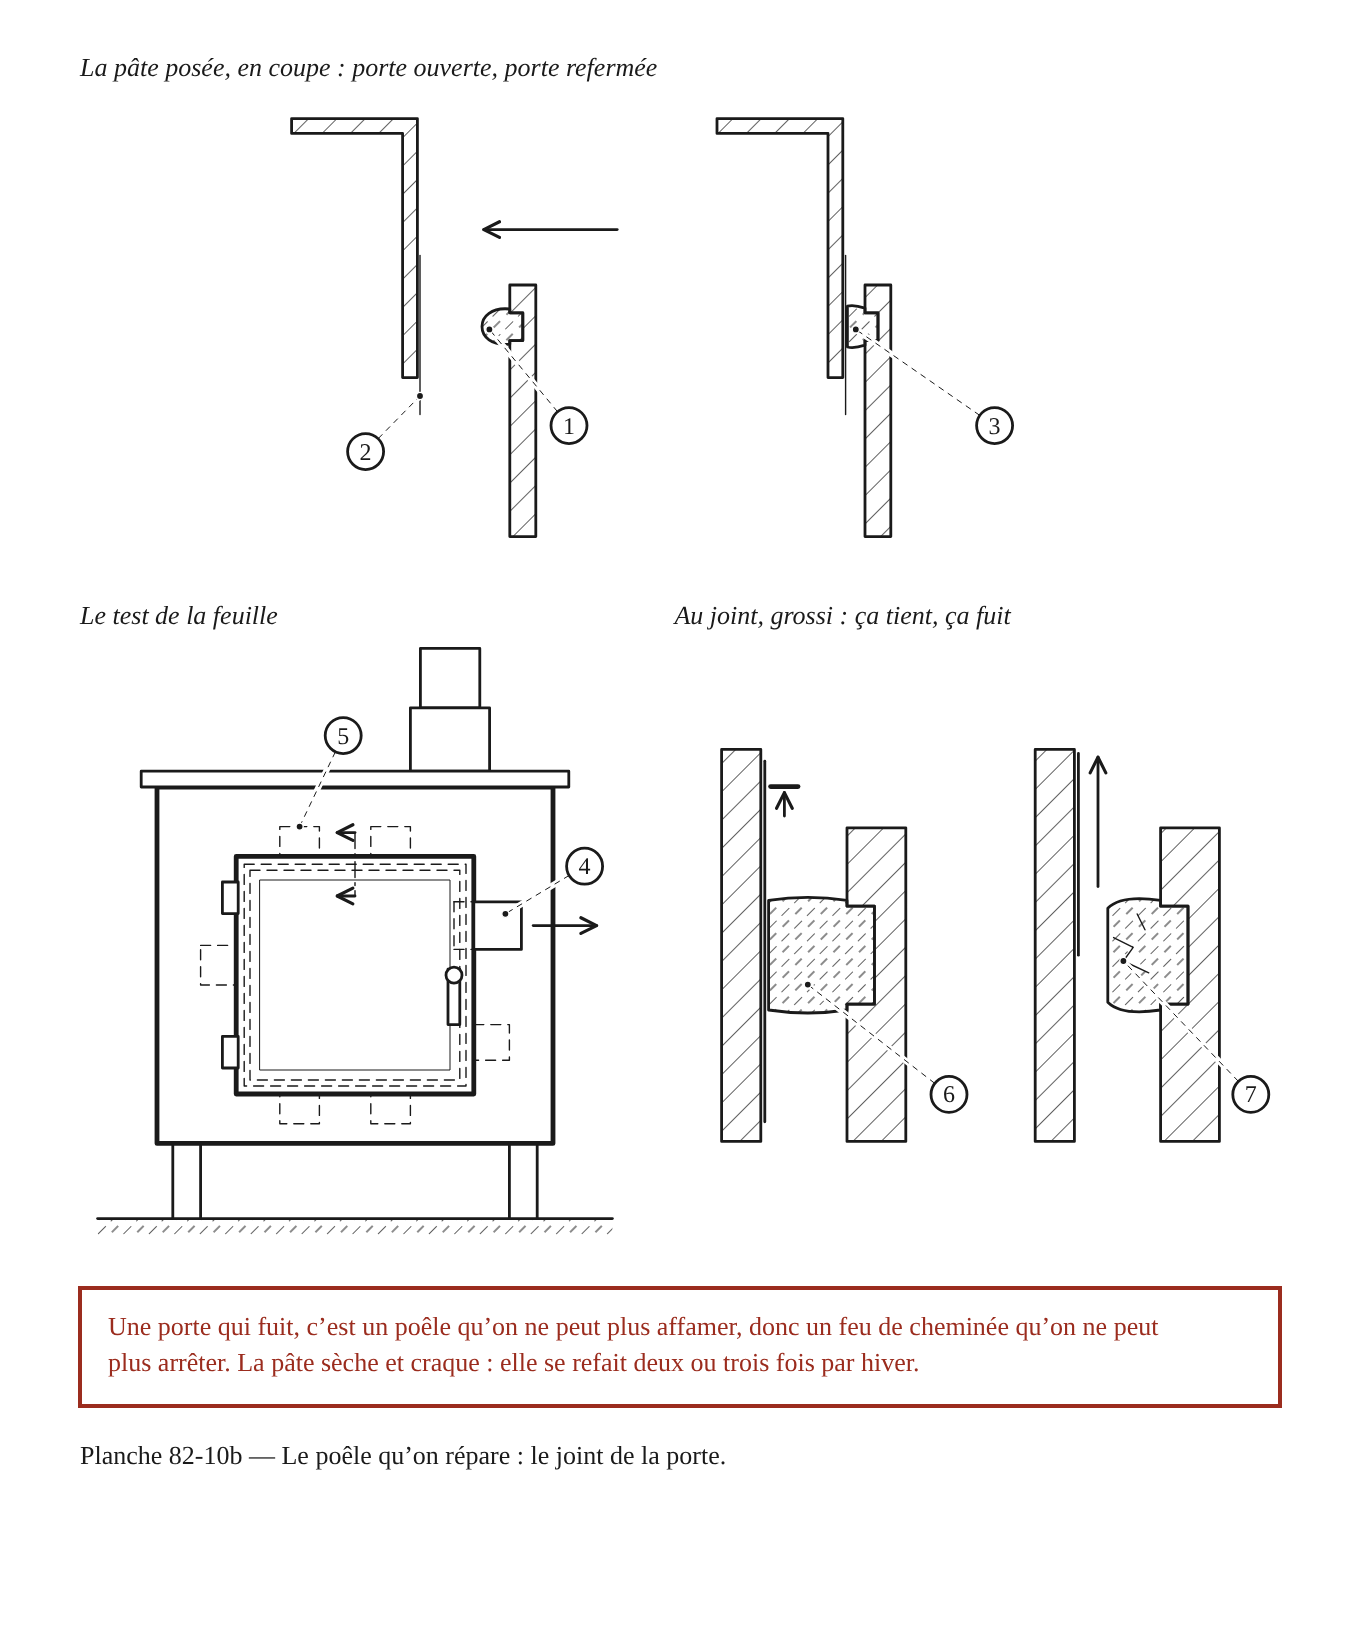
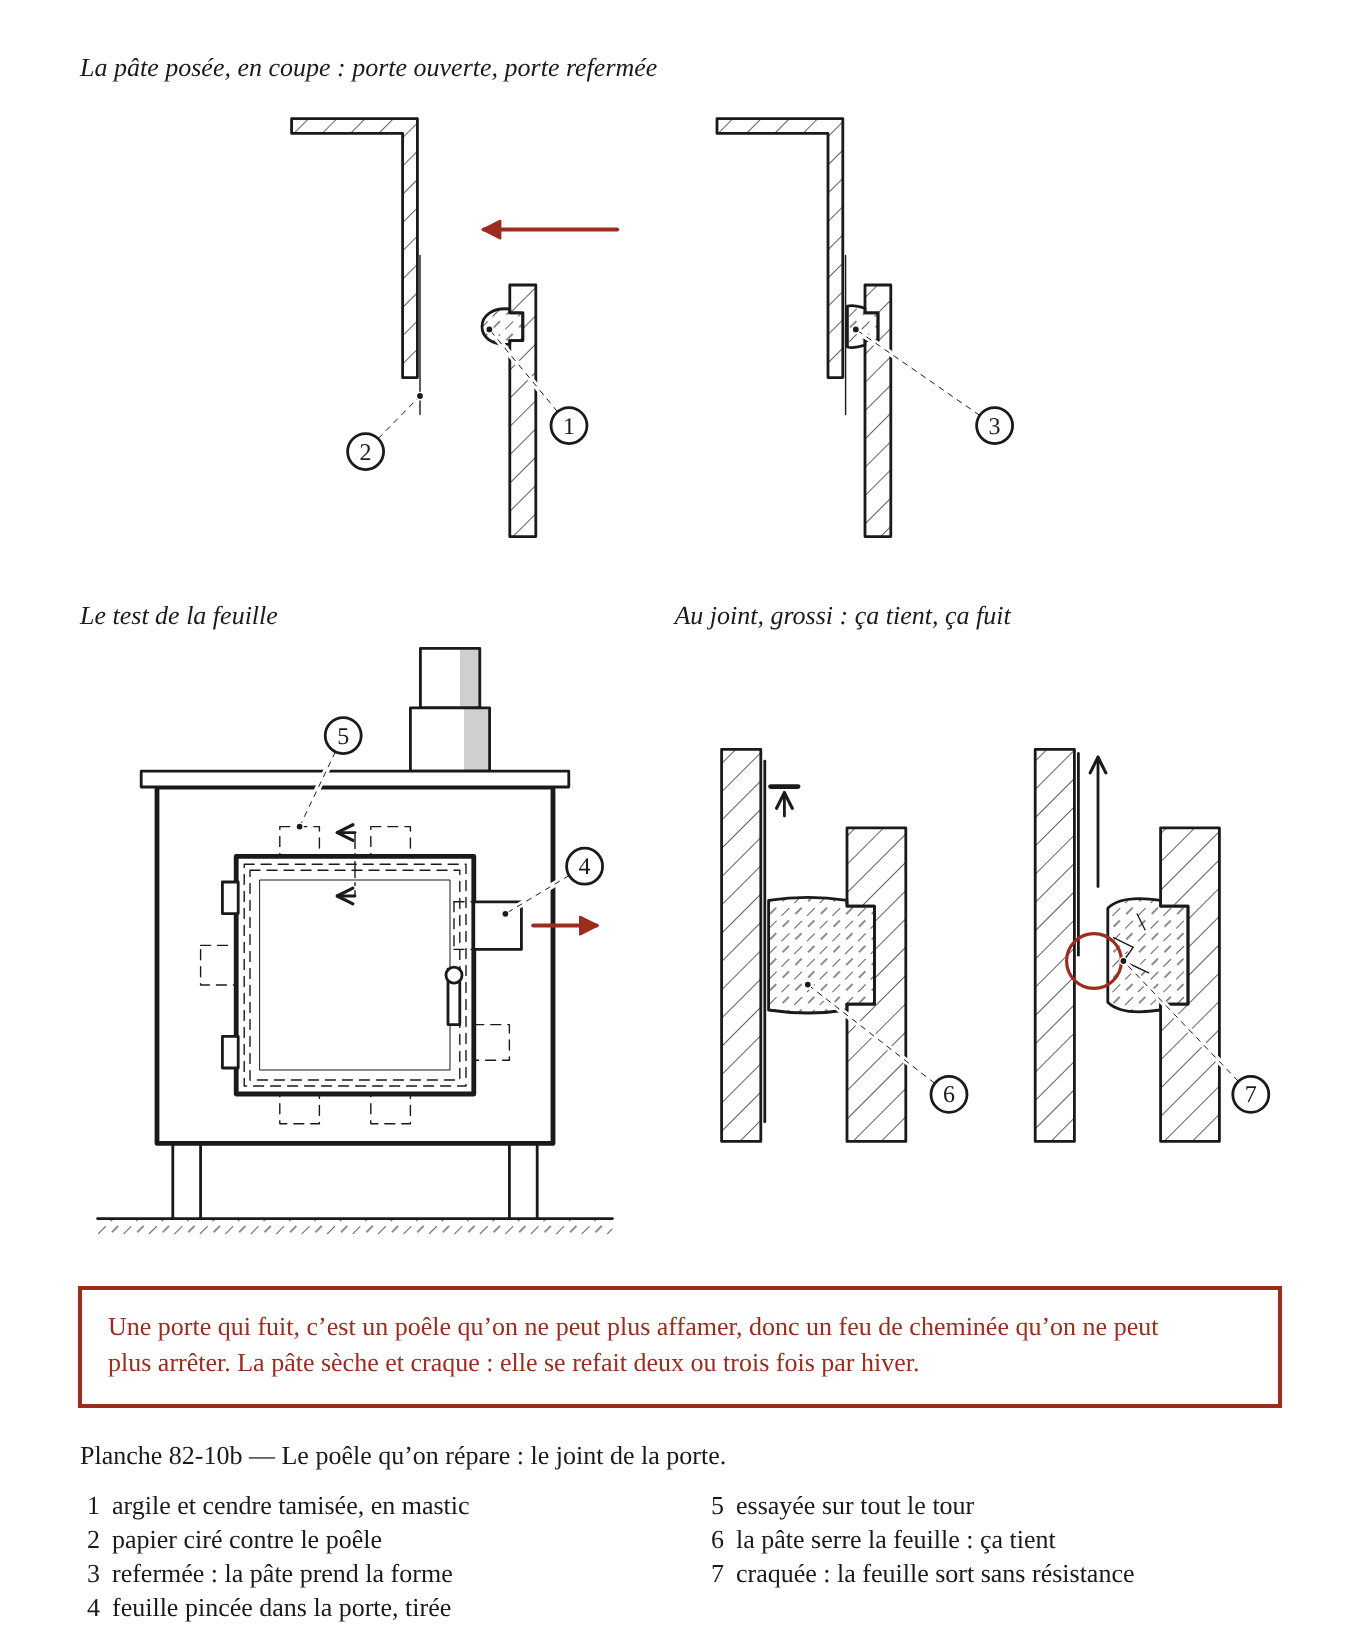
Charte : lot 2 terminé
Claude-Session: https://claude.ai/code/session_014xDY5FLxFXDJt3nYAYznSZ

diff --git a/images/planches-src/93-41.js b/images/planches-src/93-41.js
@@ -7,6 +7,10 @@
 // leurs clous (où la guirlande s'accroche), les clous au plafond, la boucle de cordelette qui pend
 // la botte au fil, et dehors l'avant-toit (contre la neige) et la moustiquaire nouée (contre les
 // oiseaux) : le chapitre dit « à l'abri », pas avec quoi.
+// La charte : sur le fil, les tranches au contour fort et les poteaux ramenés à l'arête ; le
+// poêle, qui n'est là que pour situer les bottes, recule en gris loin. Le rouge : le vide entre
+// deux tranches (le point à vérifier : elles ne se touchent pas) et, au-dessus du poêle, la zone
+// où la feuille cuit. Les flèches d'air restent noires.
 
 module.exports = (h) => {
   const f = v => Math.round(v * 10) / 10;
@@ -56,12 +60,12 @@ module.exports = (h) => {
   };
 
   // La guirlande complète : fil, tranches, entrée du fil dans chaque face.
-  const guirlande = (x0, y0, x1, y1, sag, n, s, k, t, marge) => {
+  const guirlande = (x0, y0, x1, y1, sag, n, s, k, t, marge, trait = h.a.arete) => {
     const Y = pend(x0, y0, x1, y1, sag), o = [], xs = [];
     o.push(h.chemin(trace(x0, x1, Y), h.a.arete));
     const a = x0 + marge, b = x1 - marge;
     for (let i = 0; i < n; i++) xs.push(a + (b - a) * i / (n - 1));
-    const tr = xs.map(x => tranche(x, Y(x), s, k, t));
+    const tr = xs.map(x => tranche(x, Y(x), s, k, t, trait));
     tr.forEach((q, i) => {
       o.push(q.svg);
       const xg = q.gauche;
@@ -138,11 +142,17 @@ module.exports = (h) => {
   const dessinG = z => {
     const g = G(z), o = [];
     // deux poteaux coupés par la vue, deux clous dans chacun
-    o.push(h.rect(0, 0, g.wp, z.h, h.a.hachure('bois', 'contour')));
-    o.push(h.rect(z.l - g.wp, 0, g.wp, z.h, h.a.hachure('bois', 'contour')));
+    o.push(h.rect(0, 0, g.wp, z.h, h.a.hachure('bois', 'arete')));
+    o.push(h.rect(z.l - g.wp, 0, g.wp, z.h, h.a.hachure('bois', 'arete')));
     [g.yG, g.yB].forEach(y => { o.push(clou(g.wp, y, 1)); o.push(clou(z.l - g.wp, y, -1)); });
     // la guirlande
-    o.push(guirlande(g.x0 - 2, g.yG, g.x1 + 2, g.yG, g.sagG, g.n, g.s, g.k, g.t, g.marge).svg);
+    o.push(guirlande(g.x0 - 2, g.yG, g.x1 + 2, g.yG, g.sagG, g.n, g.s, g.k, g.t, g.marge, h.a.contour).svg);
+    // le point à vérifier : le vide entre deux tranches, qui ne se touchent pas
+    {
+      const YG = pend(g.x0 - 2, g.yG, g.x1 + 2, g.yG, g.sagG);
+      const a = g.x0 + g.marge, b = g.x1 - g.marge, pas = (b - a) / (g.n - 1), xv = a + pas * 1.5 + g.t / 2;
+      o.push(h.controle(xv, YG(xv) + 0.22 * g.s, 9));
+    }
     // les bottes : chacune pendue au fil par sa boucle
     const Y = pend(g.x0 - 2, g.yB, g.x1 + 2, g.yB, g.sagB);
     o.push(h.chemin(trace(g.x0 - 2, g.x1 + 2, Y), h.a.arete));
@@ -180,12 +190,15 @@ module.exports = (h) => {
     o.push(h.ligne(0, p.yF, z.l, p.yF, h.a.contour));
     // poêle en élévation : pattes, caisse, dessus, porte, tuyau jusqu'au plafond
     const { xs0, ws, hs, ybB, ybT } = p;
-    o.push(h.rect(xs0 + 4, ybB, 5, p.pattes, blanc(h.a.arete)));
-    o.push(h.rect(xs0 + ws - 9, ybB, 5, p.pattes, blanc(h.a.arete)));
-    o.push(h.rect(f(p.xPipe - p.wPipe / 2), p.yC, p.wPipe, ybT - 4 - p.yC, blanc(h.a.arete)));
+    const gris = a => a.replace('fill="none"', `fill="#E6E6E6"`);
+    o.push(h.rect(xs0 + 4, ybB, 5, p.pattes, gris(h.a.arete)));
+    o.push(h.rect(xs0 + ws - 9, ybB, 5, p.pattes, gris(h.a.arete)));
+    o.push(h.rect(f(p.xPipe - p.wPipe / 2), p.yC, p.wPipe, ybT - 4 - p.yC, gris(h.a.arete)));
     o.push(h.ligne(f(p.xPipe - p.wPipe / 2), f(p.yC + (ybT - p.yC) * 0.55), f(p.xPipe + p.wPipe / 2), f(p.yC + (ybT - p.yC) * 0.55), h.a.detail));
-    o.push(h.rect(xs0, ybT, ws, hs, blanc(h.a.contour)));
-    o.push(h.rect(xs0 - 3, ybT - 4, ws + 6, 4, blanc(h.a.arete)));
+    o.push(h.rect(xs0, ybT, ws, hs, gris(h.a.arete)));
+    o.push(h.rect(xs0 - 3, ybT - 4, ws + 6, 4, gris(h.a.arete)));
+    // la zone où la feuille cuit : toute la colonne au-dessus du poêle
+    o.push(h.rect(xs0 - 6, p.yC + 5, ws + 12, ybT - 10 - p.yC - 5, h.a.zone));
     const px = xs0 + ws * 0.14, pw = ws * 0.62, py = ybT + hs * 0.24, ph = hs * 0.5;
     o.push(h.rect(f(px), f(py), f(pw), f(ph), h.a.detail));
     o.push(h.ligne(f(px + pw - 5), f(py + ph * 0.4), f(px + pw - 5), f(py + ph * 0.6), h.a.arete));

diff --git a/images/planches-src/82-10b.js b/images/planches-src/82-10b.js
@@ -4,6 +4,11 @@
 //
 // Chaque vue a son repère de modèle (unités arbitraires, jamais imprimées), mis à l'échelle
 // par cadre() pour remplir la vue en gardant les proportions.
+//
+// La charte : les coupes hachurées restent sans gris ; de face, le tuyau et la buse ont leur face de
+// droite à l'ombre. Le rouge : la porte qu'on referme sur la pâte, la feuille qu'on tire, et, sur le
+// joint qui fuit, l'endroit où la pâte s'est retirée de la feuille. Les flèches de la feuille grossie
+// disent ce qu'elle fait (elle sort ou elle tient) : elles restent noires.
 
 module.exports = (h) => {
   const f = v => +v.toFixed(1);
@@ -48,7 +53,7 @@ module.exports = (h) => {
       if (ouvert) {
         o.push(g.P(g.D(['M', d + 7, 115], ['L', d, 115], ['L', d, 113], ['C', d - 10, 112, d - 15, 117, d - 15, 122.5],
           ['C', d - 15, 128, d - 10, 133, d, 132], ['L', d, 130], ['L', d + 7, 130], ['Z']), h.a.hachure('terre', 'arete')));
-        o.push(g.F(g.D(['M', ox + 176, 70], ['L', ox + 104, 70])));
+        o.push(h.geste(g.D(['M', ox + 176, 70], ['L', ox + 104, 70])));
       } else {
         o.push(g.P(g.D(['M', d + 7, 115], ['L', d, 115], ['L', d, 112.5], ['Q', d - 6, 110.5, ox + 70.5, 111.5],
           ['L', ox + 70.5, 133.5], ['Q', d - 6, 134.5, d, 132.5], ['L', d, 130], ['L', d + 7, 130], ['Z']),
@@ -65,7 +70,9 @@ module.exports = (h) => {
   const test = z => {
     const g = cadre(z, ...MT), o = [];
     o.push(g.R(0, 288, 260, 9, h.a.hachure('terre', 'aucun')), g.L(0, 288, 260, 288, h.a.arete));
-    o.push(g.R(163, 0, 30, 30, W('arete')), g.R(158, 30, 40, 32, W('arete')));
+    // le tuyau et la buse, leur face de droite à l'ombre
+    o.push(g.R(163, 0, 30, 30, h.a.blanc), g.R(183, 0, 10, 30, h.a.ombre), g.R(163, 0, 30, 30, h.a.arete));
+    o.push(g.R(158, 30, 40, 32, h.a.blanc), g.R(185, 30, 13, 32, h.a.ombre), g.R(158, 30, 40, 32, h.a.arete));
     [[38, 250], [208, 250]].forEach(([x, y]) => o.push(g.R(x, y, 14, 38, W('arete'))));
     o.push(g.R(30, 70, 200, 180, W('contour')), g.R(22, 62, 216, 8, W('arete')));
     // les autres places où la feuille s'essaie, au tireté
@@ -83,7 +90,7 @@ module.exports = (h) => {
     // la feuille pincée côté poignée, tirée ; sa partie cachée sous la porte au tireté
     o.push(g.R(190, 128, 24, 24, W('arete')), g.L(180, 128, 190, 128, h.a.cache), g.L(180, 152, 190, 152, h.a.cache),
       g.L(180, 128, 180, 152, h.a.cache));
-    o.push(g.F(g.D(['M', 220, 140], ['L', 252, 140])));
+    o.push(h.geste(g.D(['M', 220, 140], ['L', 252, 140])));
     return o.join('\n');
   };
 
@@ -108,6 +115,8 @@ module.exports = (h) => {
     };
     joint(0, false);
     joint(160, true);
+    // sur le raté : là où la pâte s'est retirée de la feuille
+    o.push(g.C(210, 108, 14, h.a.controle));
     return o.join('\n');
   };
 

diff --git a/images/planches-src/99-09a.js b/images/planches-src/99-09a.js
@@ -51,7 +51,7 @@ const CENTRES = [29, 112, 195];          // milieu de chaque morceau, racines co
 function rhubarbe(h) {
   const A = h.a;
   const blanc = at => at.replace('fill="none"', 'fill="#FFFFFF"');
-  const bA = blanc(A.arete), bD = blanc(A.detail);
+  const bA = blanc(A.arete), bD = blanc(A.detail), bC = blanc(A.contour);   // bC : la couronne, objet de la planche (charte)
   const MIXTE = 'fill="none" stroke="#1A1A1A" stroke-width="0.7" stroke-dasharray="8 3 1.5 3" stroke-linecap="round"';
   const f = p => `${r1(p[0])} ${r1(p[1])}`;
   const dd = (pts, ferme) => pts.map((p, i) => `${i ? 'L' : 'M'}${f(p)}`).join(' ') + (ferme ? ' Z' : '');
@@ -170,7 +170,7 @@ function rhubarbe(h) {
     if (tiges) out.push(tiges);
     PETITS.filter(b => dans(b.x)).forEach(b => out.push(bourgeon(b, P)));
     GROS.filter(b => dans(b.x)).forEach(b => out.push(ouvert ? bourgeonOuvert(b, P) : bourgeon(b, P)));
-    const peau = [`<path d="${dd(corps.map(P), true)}" ${bA}/>`];
+    const peau = [`<path d="${dd(corps.map(P), true)}" ${bC}/>`];
     GRAIN.filter(([x]) => dans(x)).forEach(([x, y]) => { const q = P([x, y]); peau.push(`<circle cx="${r1(q[0])}" cy="${r1(q[1])}" r="0.55" ${A.plein}/>`); });
     if (seg === null) out.push(...peau);
     else {
@@ -178,7 +178,7 @@ function rhubarbe(h) {
       out.push(`<clipPath id="k9909-${id}"><rect x="${r1(a[0])}" y="${r1(a[1])}" width="${r1(b[0] - a[0])}" height="${r1(b[1] - a[1])}"/></clipPath>`,
         `<g clip-path="url(#k9909-${id})">`, ...peau, '</g>');
       // la face coupée : un trait droit, net, là où le couteau est passé
-      for (const x of COUPES) if (x === x0 || x === x1) { const [yt, yb] = bornesY(x); out.push(h.ligne(...P([x, yt]), ...P([x, yb]), A.arete)); }
+      for (const x of COUPES) if (x === x0 || x === x1) { const [yt, yb] = bornesY(x); out.push(h.ligne(...P([x, yt]), ...P([x, yb]), A.contour)); }
     }
     return out.join('\n');
   };
@@ -221,7 +221,10 @@ const fabrique = (h) => {
         titre: 'Tôt au printemps, soulever et couper',
         dessin: z => [
           R.couronne(T1),
-          ...[72, 152].map(x => h.path(`M${R.f(P1([x, -56]))} L${R.f(P1([x, 184]))}`, R.MIXTE)),
+          h.path(`M${R.f(P1([72, -56]))} L${R.f(P1([72, 184]))}`, R.MIXTE),
+          // le geste (charte) : la lame descend par le trait de coupe, entre les bourgeons
+          h.path(`M${R.f(P1([152, -2]))} L${R.f(P1([152, 184]))}`, R.MIXTE),
+          h.geste(`M${R.f(P1([152, -58]))} L${R.f(P1([152, -8]))}`),
         ].join('\n'),
         renvois: z => [
           { n: 1, rond: [P1([104, 0])[0] - 4, 14], cible: P1([100, -26]), texte: 'gros bourgeon vigoureux' },

diff --git a/images/planches-src/99-09b.js b/images/planches-src/99-09b.js
@@ -114,7 +114,7 @@ module.exports = (h) => {
           const top = lisse(butte);
           const o = [`<path d="${dd([...top, [z.l, z.h], [0, z.h]], true)}" ${A.hachure('terre', 'aucun')}/>`];
           o.push(R.couronne(P0, { seg: 1, id: 'g1' }), R.couronne(P1, { seg: 2, id: 'g2' }));
-          o.push(`<path d="${dd(top)}" ${A.arete}/>`);
+          o.push(`<path d="${dd(top)}" ${A.contour}/>`);
           return o.join('\n');
         },
         renvois: z => {
@@ -131,8 +131,10 @@ module.exports = (h) => {
         titre: 'L’hiver, forcer au noir',
         dessin: z => {
           const { oy, P, T } = gF(z);
-          const box = (x, y, l, ht) => `<path d="${dd([[x, y], [x + l, y], [x + l, y + ht], [x, y + ht]].map(P), true)}" ${A.hachure('bois')}/>`;
+          const box = (x, y, l, ht) => `<path d="${dd([[x, y], [x + l, y], [x + l, y + ht], [x, y + ht]].map(P), true)}" ${A.hachure('bois', 'contour')}/>`;
           const o = [];
+          // charte : l'intérieur des deux caisses, au noir, en gris loin (le fond vu en coupe)
+          o.push(`<path d="${dd([[EP, -HC - HH + EP], [LC - EP, -HC - HH + EP], [LC - EP, SURF], [EP, SURF]].map(P), true)}" ${A.loin}/>`);
           // le plancher
           o.push(h.rect(0, oy, z.l, 8, A.hachure('bois', 'aucun')), h.ligne(0, oy, z.l, oy, A.contour));
           // la terre ou le sable dans la caisse

diff --git a/images/planches-src/97-01b.js b/images/planches-src/97-01b.js
@@ -72,7 +72,7 @@ module.exports = (h) => {
     const a = pt(-t, 0), b = pt(t, 0), m1 = pt(0, t * 0.55), m2 = pt(0, -t * 0.55);
     return [
       h.path(`M${a[0]} ${a[1]} Q${m1[0]} ${m1[1]} ${b[0]} ${b[1]} Q${m2[0]} ${m2[1]} ${a[0]} ${a[1]} Z`, blanc(A.detail)),
-      h.ligne(...a, ...b, A.fin),
+      h.chemin([a, b], A.fin),   // la nervure : un trait de détail, pas une hachure
     ].join('\n');
   };
 
